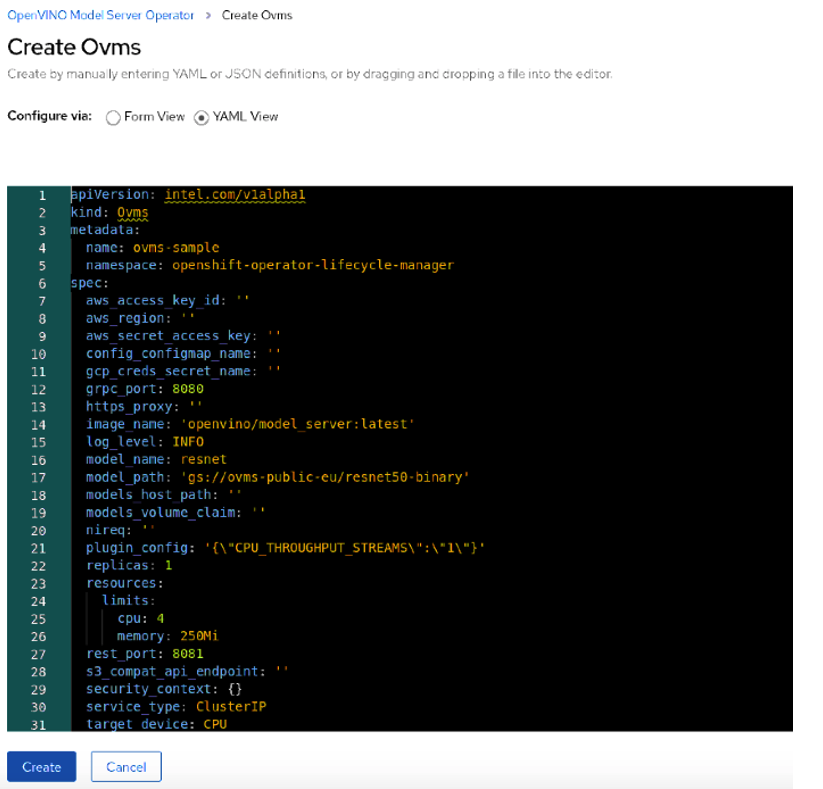
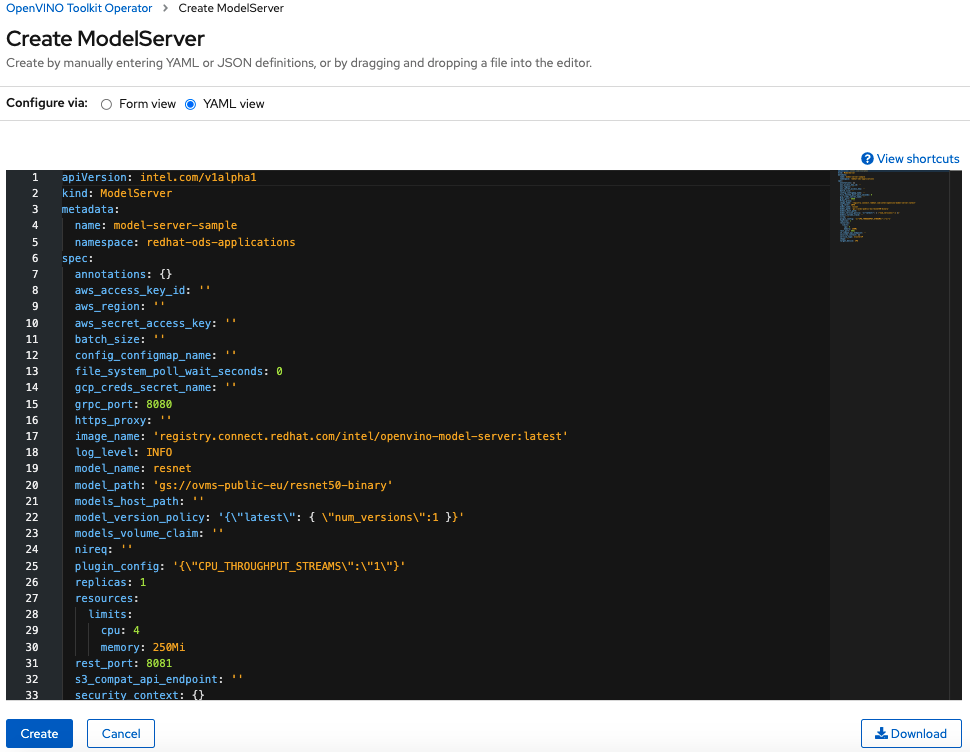
local image building in rhods integration

diff --git a/lib_search.py b/lib_search.py
@@ -50,7 +50,7 @@ def check_dir(start_dir):
                      'libuuid.LICENSE.txt', 'input_images.txt', 'REST_age_gender.ipynb', 'dummy.xml', 'listen.patch', 'add.xml',
                      'requirements.txt', 'missing_headers.txt', 'libevent/BUILD', 'azure_sdk.patch', 'rest_sdk_v2.10.16.patch', '.wav',]
                    
-    exclude_directories = ['/dist/', 'extras/ovms-operator']
+    exclude_directories = ['/dist/', 'extras/ovms-operator', 'extras/openvino-operator-openshift']
 
     for (d_path, dir_set, file_set) in os.walk(start_dir):
         for f_name in file_set:

diff --git a/extras/openvino-operator-openshift/README.md b/extras/openvino-operator-openshift/README.md
@@ -5,14 +5,7 @@ It allows for easy deployment and management of OVMS service in the Kubernetes c
 
 ## Operator deployment
 
-### OpenShift
-
-In the web console navigate to OperatorHub menu. Search for "OpenVINO" and select "OpenVINO Model Server". Click `Install` button.
-
-### Kubernetes with OLM
-
-Deploy the operator using the steps covered in [OperatorHub](https://operatorhub.io/operator/ovms-operator). Click 'Install' button.
-
+In the web console navigate to OperatorHub menu. Search for "OpenVINO" and select "OpenVINO Operator". Click `Install` button.
 
 ## Deploying OpenVINO Model Server via the Operator
 
@@ -21,7 +14,7 @@ Deploy the operator using the steps covered in [OperatorHub](https://operatorhub
 While you deploy OVMS Operator in [OpenShift](https://www.openshift.com/), you can manage the instances of OVMS using
 the [web console](https://docs.openshift.com/container-platform/4.6/web_console/web-console.html).
 
-Navigate to the menu `Installed Operators` and click the link `Create Ovms`.
+Navigate to the menu `Installed Operators` and click the link `Create ModelServer`.
 You will be presented with the template of the OVMS deployment configuration:
 
 ![template](images/openshift1.png)
@@ -47,7 +40,7 @@ persistent volume claim or configmap with OVMS configuration file.
 ## Using the OVMS in the cluster
 
 The operator deploys an OVMS instance as a Kubernetes service with a predefined number of replicas.
-The `Service` name is matching the `Ovms` resource.
+The `Service` name is matching the `ModelServer` resource.
 ```bash
 kubectl get pods
 NAME                           READY   STATUS    RESTARTS   AGE
